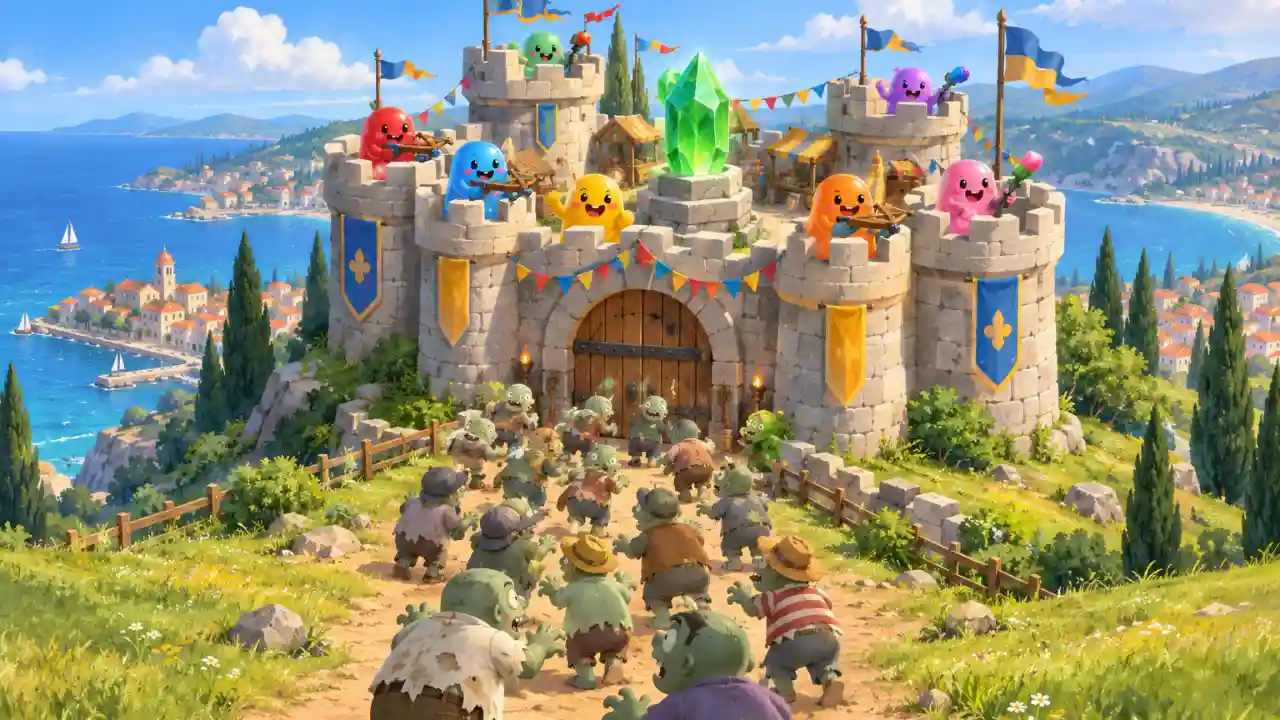
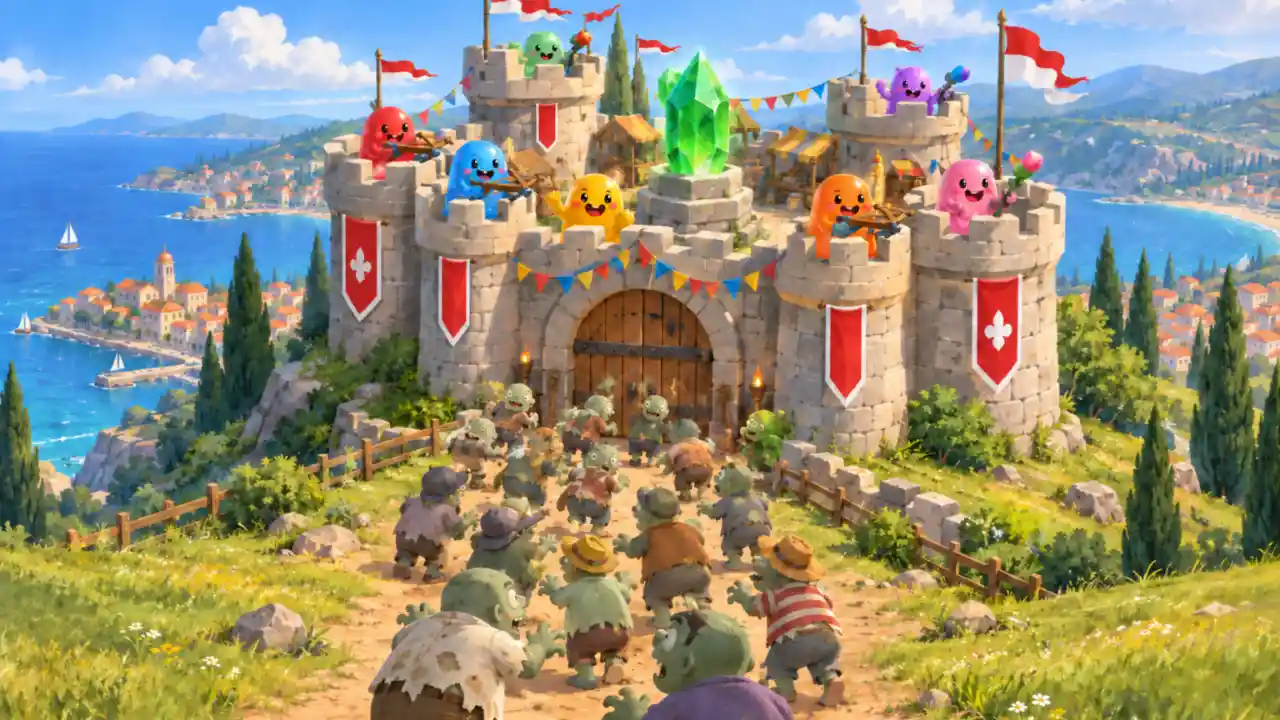
Экран загрузки крепости: флаги и знамёна красно-белые вместо сине-жёлтых

diff --git a/client/assets/loading/PROVENANCE.md b/client/assets/loading/PROVENANCE.md
@@ -25,7 +25,7 @@ Strictly: no text, no letters, no numbers, no words, no signs with writing, no l
 | Набережная (возврат; в бухте — регата) | `lobby.webp`, 61.0 КБ | `lobby-jelly.webp`, 14.7 КБ |
 | Пейнтбол | `paintball.webp`, 56.5 КБ | `paintball-jelly.webp`, 17.1 КБ |
 | Картинг | `race.webp`, 58.6 КБ | `race-jelly.webp`, 18.9 КБ |
-| Крепость | `fort.webp`, 61.8 КБ | `fort-jelly.webp`, 19.8 КБ |
+| Крепость | `fort.webp`, 62.9 КБ | `fort-jelly.webp`, 19.8 КБ |
 | Fight Club | `fight.webp`, 59.2 КБ | `fight-jelly.webp`, 14.8 КБ |
 | «Выше облаков» | `skill.webp`, 56.8 КБ | `skill-jelly.webp`, 14.7 КБ |
 | Прятки «Рыбный двор» | `hide.webp`, 60.9 КБ | `hide-jelly.webp`, 17.9 КБ |
@@ -39,6 +39,7 @@ Strictly: no text, no letters, no numbers, no words, no signs with writing, no l
 **race.webp** — Scene: a go-kart race on a sunny seaside go-kart track inside an old harbor. A winding asphalt track with red-and-white striped curbs, colorful stacks of old tires as barriers, a checkered start gantry with colorful bunting flags, a couple of red harbor cranes and stacked shipping containers in the background, the turquoise sea and a small lighthouse on the horizon. A small grandstand full of cheering jelly spectators waving. In the center, three jelly characters in round racing helmets drive small colorful go-karts drifting around a curve toward the viewer, little dust puffs and tire smoke behind them, motion and fun.
 
 **fort.webp** — Scene: a cozy cartoon stone castle (a small fortress) on a grassy seaside hill on a bright summer day, with colorful banners, bunting and a big wooden gate. Jelly defenders stand on the battlements with toy crossbows and paint markers, cheering; a large glowing green crystal stands on a pedestal in the castle courtyard; a goofy crowd of cute cartoon zombies (green-gray, silly, round, clumsy, slow, not scary at all) shambles up the dirt road toward the gate. The blue sea and the little town are in the distance.
+Затем флаги и знамёна перекрашены из сине-жёлтых в красно-белые правкой этой же картинки через Codex image_gen («repaint all blue-and-yellow flags and banners into red and white, keep everything else the same»), WebP 0,30.
 
 **fight.webp** — Scene (indoors, so the sky is visible only through a small high window): an underground fight club in a cozy brick basement under a seaside house. A small boxing ring with red ropes and a worn canvas floor in the center, warm hanging lamps casting round pools of golden light, sun rays slanting in through the small high window, old posters without any writing, a crowd of jelly spectators around the ring cheering and waving. Two jelly boxers in big red boxing gloves face each other in the ring in a fighting stance, one wears a white headband. Warm, playful and sporty, not grim, not dark, no blood.
 
